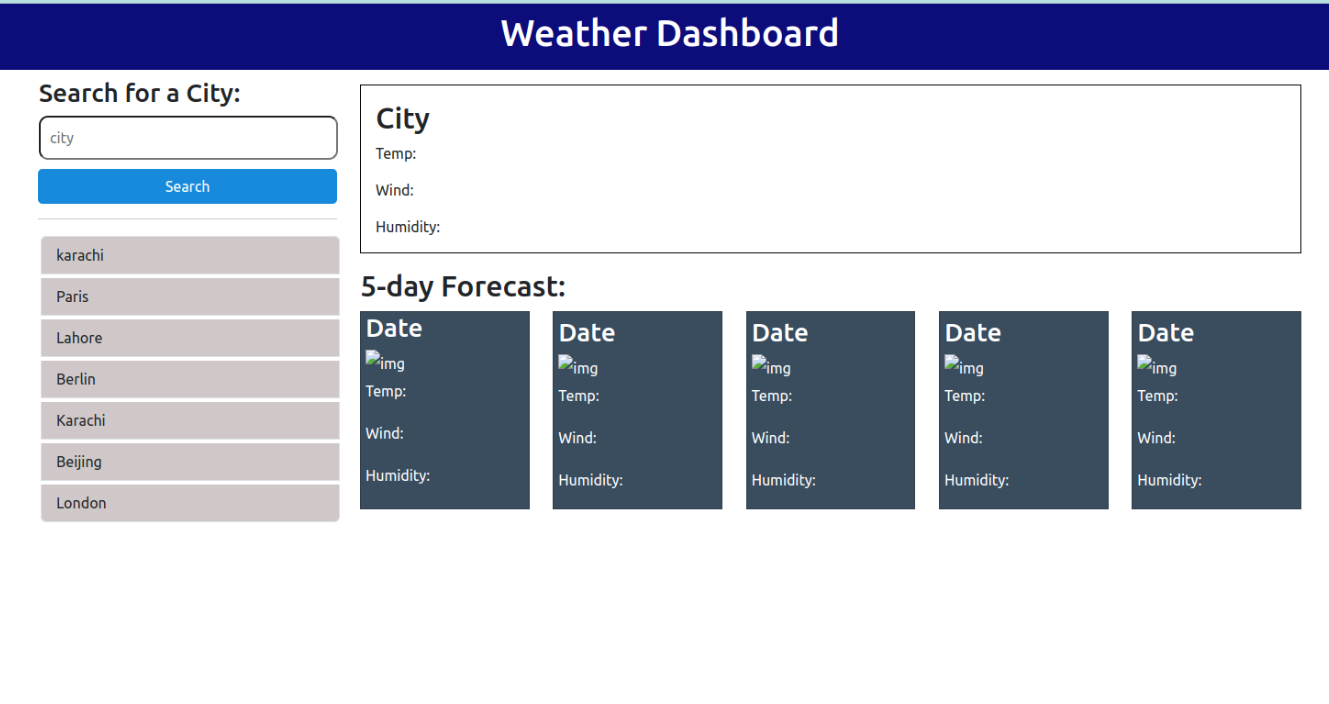
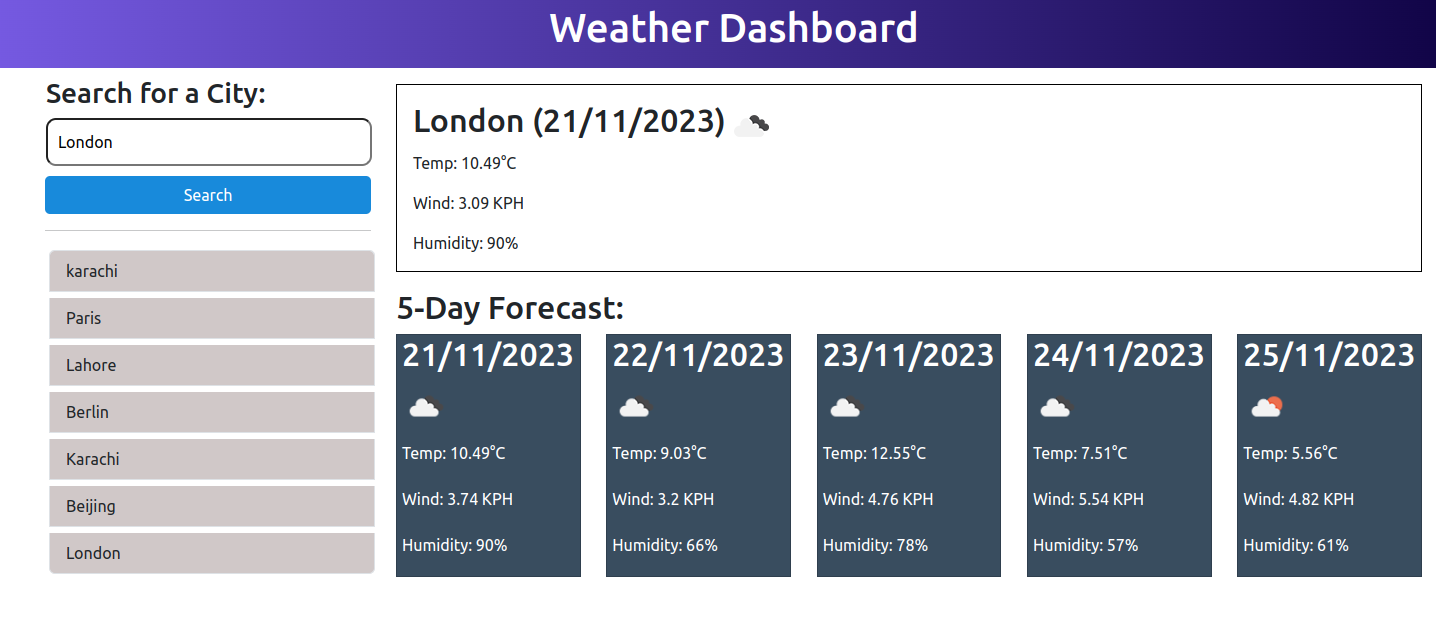
updated readme and placeholder

diff --git a/script.js b/script.js
@@ -129,9 +129,6 @@ $(document).ready(function () {
 
       // Update the history list
       updateHistoryList(historyArray);
-
-      // Update the placeholder in the search input with the selected city
-      searchInput.attr("placeholder", data.name);
     }
   }
 
@@ -145,6 +142,7 @@ $(document).ready(function () {
         .text(cityName)
         .on("click", function () {
           getWeatherData(cityName);
+          searchInput.attr("placeholder", cityName);
         });
 
       historyList.append(listItem);

diff --git a/styles/styles.css b/styles/styles.css
@@ -20,7 +20,7 @@
 
 .card {
   color: white;
-  background: rgb(57, 77, 95);
+  background: rgb(68, 91, 111);
   padding-left: 5px;
   line-height: 30px;
   border-radius: 0;

diff --git a/README.md b/README.md
@@ -2,13 +2,13 @@
 
 ## Overview
 
-This is a weather forecast application that enables users to access weather predictions for a selected city of their choice.
+This is a weather forecast application that enables users to access weather predictions for a selected city of their choice.On initial page load, the weather forecast will default to London's statistics.
 
 ## Website visuals
 
 The following image shows the web application's appearance and functionality:
 
-![weather dashboard UI](./demo/demo1.png)
+![default statistics](./demo/demo1.png)
 ![weather dashboard functionality](./demo/demo2.png)
 
 ## Technologies
